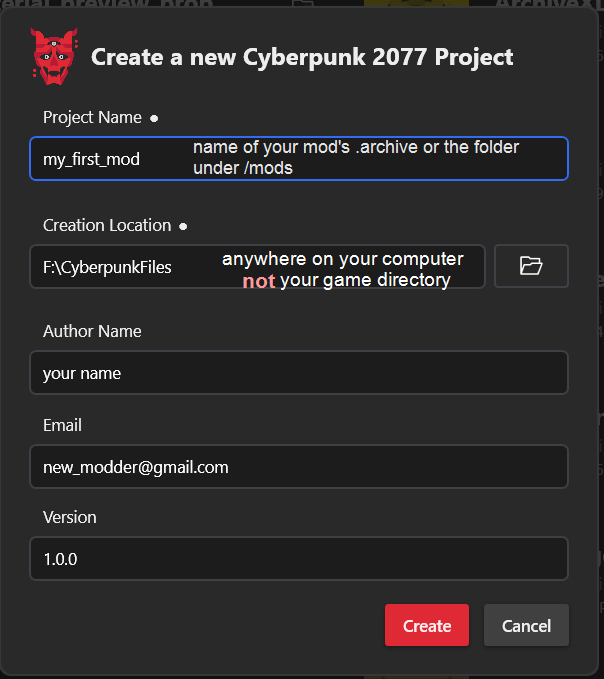
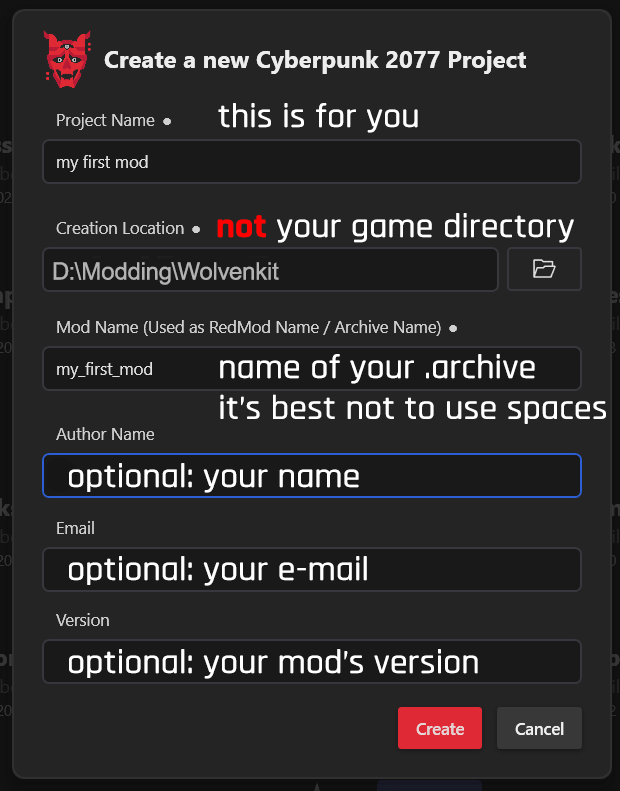
GITBOOK-411: updated new project screenshot

diff --git a/wolvenkit-app/usage/wolvenkit-projects.md b/wolvenkit-app/usage/wolvenkit-projects.md
@@ -23,7 +23,7 @@ You will see something like this:
 
 <figure><img src="../../.gitbook/assets/wolvenkit_new_project.png" alt=""><figcaption></figcaption></figure>
 
-<table><thead><tr><th width="180">Field</th><th>explanation</th></tr></thead><tbody><tr><td>Project name</td><td>The name of your mod. This should be unique, as this will be used to generate your mod's structure, and it would be awkward to overwrite someone else's mod. <br><br>Although special characters are supported, it's a good habit to avoid them.</td></tr><tr><td>Creation location</td><td>The location where you keep your Wolvenkit projects. A subfolder with the project name will be created automatically. <br><br>Do <strong>not</strong> put this in your game directory!</td></tr><tr><td>Author name</td><td>Optional — What it looks like - who made this?</td></tr><tr><td>Email</td><td>Optional — can people send you mails about your mod? </td></tr><tr><td>Version</td><td>Optional — if you want to maintain versioning yourself</td></tr></tbody></table>
+<table><thead><tr><th width="180">Field</th><th>explanation</th></tr></thead><tbody><tr><td>Project name</td><td>The name of your mod. This will only be used internally, so name it what you lke.</td></tr><tr><td>Creation location</td><td>The location where you keep your Wolvenkit projects. A subfolder with the project name will be created automatically. <br><br>Do <strong>not</strong> put this in your game directory!</td></tr><tr><td>Mod name</td><td><p>name of your .archive or redmod folder. </p><p></p><p>This should be unique, as this will be used to generate your mod's structure, and it would be awkward to overwrite someone else's mod. <br><br>Although special characters are supported, it's a good habit to avoid them.</p></td></tr><tr><td>Author name</td><td>Optional — What it looks like - who made this?</td></tr><tr><td>Email</td><td>Optional — can people send you mails about your mod? </td></tr><tr><td>Version</td><td>Optional — if you want to maintain versioning yourself</td></tr></tbody></table>
 
 Click **Finish.** WolvenKit will now open the new project and proceed to the [**Editor**](../editor/)**.**
 
